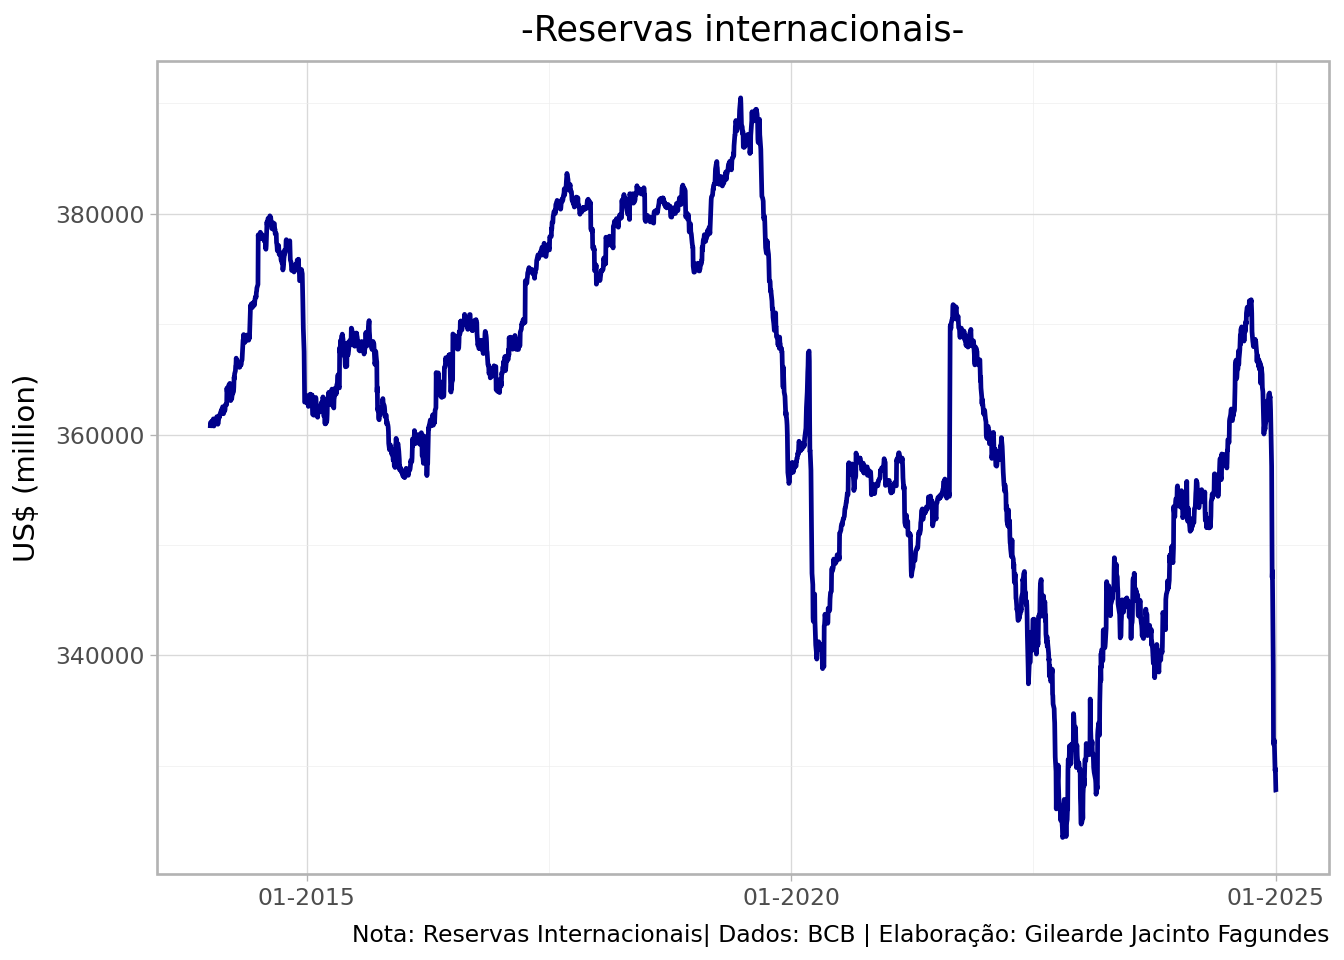
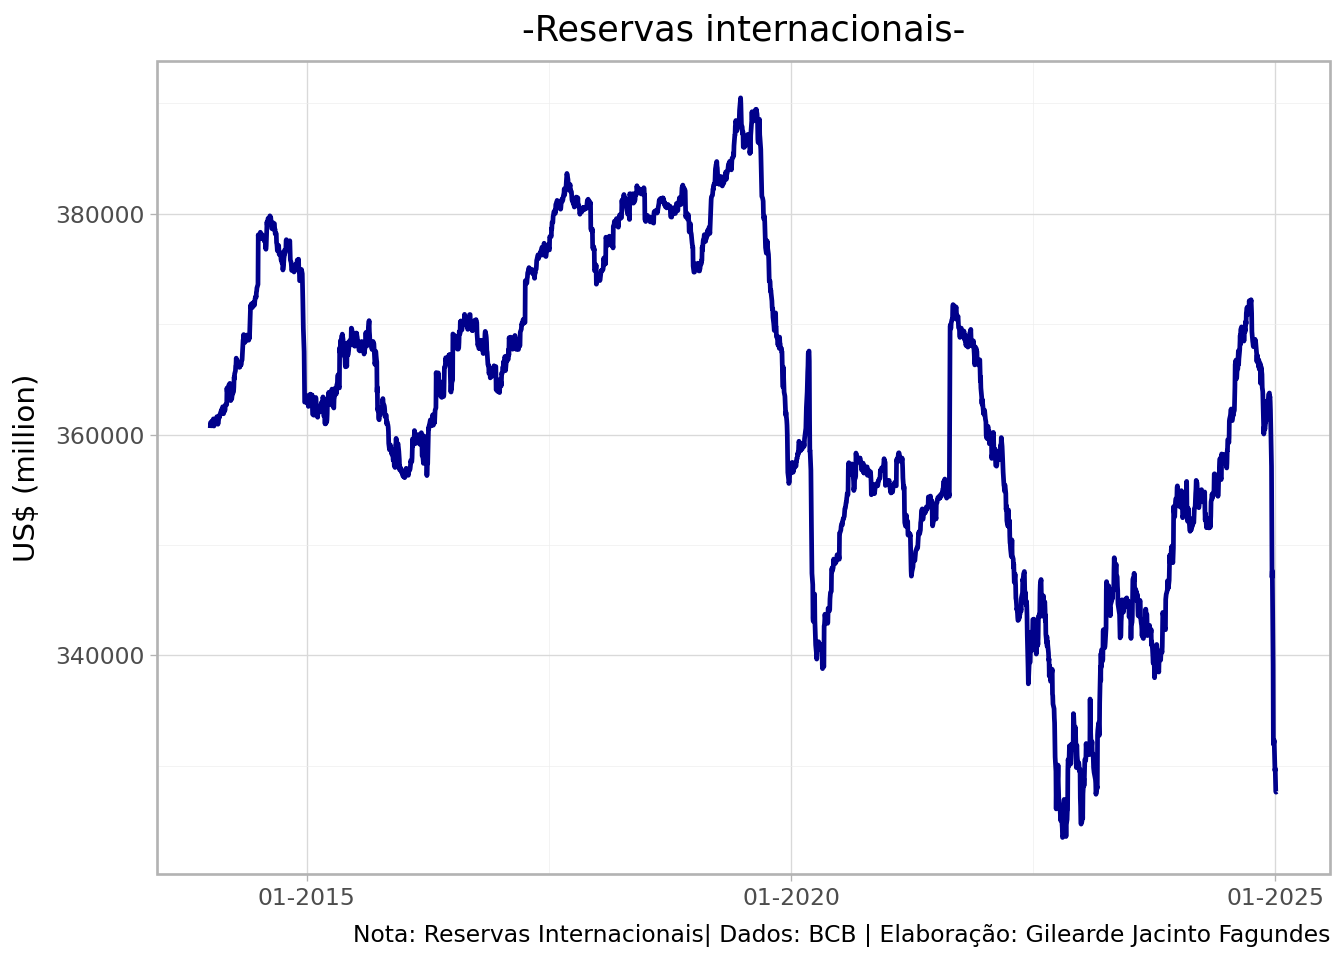
Atualização de relatorio e dashboard

diff --git a/relatorio/relatorio.html b/relatorio/relatorio.html
@@ -107,14 +107,14 @@ pre > code.sourceCode > span > a:first-child::before { text-decoration: underlin
 
 
 <p>Dados coletados da API do Banco Central do Brasil.</p>
-<div id="8515775f" class="cell" data-execution_count="1">
+<div id="74d03cb6" class="cell" data-execution_count="1">
 <div class="sourceCode cell-code" id="cb1"><pre class="sourceCode python code-with-copy"><code class="sourceCode python"><span id="cb1-1"><a href="#cb1-1" aria-hidden="true" tabindex="-1"></a><span class="co"># Import Librarys</span></span>
 <span id="cb1-2"><a href="#cb1-2" aria-hidden="true" tabindex="-1"></a><span class="im">from</span> bcb <span class="im">import</span> sgs</span>
 <span id="cb1-3"><a href="#cb1-3" aria-hidden="true" tabindex="-1"></a><span class="im">import</span> pandas <span class="im">as</span> pd</span>
 <span id="cb1-4"><a href="#cb1-4" aria-hidden="true" tabindex="-1"></a><span class="im">import</span> plotnine <span class="im">as</span> p9</span></code><button title="Copy to Clipboard" class="code-copy-button"><i class="bi"></i></button></pre></div>
 </div>
 <p>Utilização da library SGS/BCB:</p>
-<div id="07fc3517" class="cell" data-execution_count="2">
+<div id="0a6cf289" class="cell" data-execution_count="2">
 <div class="sourceCode cell-code" id="cb2"><pre class="sourceCode python code-with-copy"><code class="sourceCode python"><span id="cb2-1"><a href="#cb2-1" aria-hidden="true" tabindex="-1"></a><span class="co"># Collect data</span></span>
 <span id="cb2-2"><a href="#cb2-2" aria-hidden="true" tabindex="-1"></a>dados <span class="op">=</span> sgs.get(</span>
 <span id="cb2-3"><a href="#cb2-3" aria-hidden="true" tabindex="-1"></a>    codes<span class="op">=</span>{<span class="st">"reserva"</span>: <span class="dv">13621</span>},</span>
@@ -123,7 +123,7 @@ pre > code.sourceCode > span > a:first-child::before { text-decoration: underlin
 <span id="cb2-6"><a href="#cb2-6" aria-hidden="true" tabindex="-1"></a>)</span></code><button title="Copy to Clipboard" class="code-copy-button"><i class="bi"></i></button></pre></div>
 </div>
 <p>Os dados brutos obtidos no SGS/BCB são exibidos abaixo:</p>
-<div id="919591d4" class="cell" data-execution_count="3">
+<div id="3e76bba3" class="cell" data-execution_count="3">
 <div class="sourceCode cell-code" id="cb3"><pre class="sourceCode python code-with-copy"><code class="sourceCode python"><span id="cb3-1"><a href="#cb3-1" aria-hidden="true" tabindex="-1"></a>dados</span></code><button title="Copy to Clipboard" class="code-copy-button"><i class="bi"></i></button></pre></div>
 <div class="cell-output cell-output-display" data-execution_count="3">
 <div>
@@ -166,37 +166,37 @@ pre > code.sourceCode > span > a:first-child::before { text-decoration: underlin
 <td>...</td>
 </tr>
 <tr class="odd">
-<td data-quarto-table-cell-role="th">2024-12-27</td>
-<td>332306</td>
-</tr>
-<tr class="even">
 <td data-quarto-table-cell-role="th">2024-12-30</td>
 <td>329537</td>
 </tr>
-<tr class="odd">
+<tr class="even">
 <td data-quarto-table-cell-role="th">2024-12-31</td>
 <td>329730</td>
 </tr>
-<tr class="even">
+<tr class="odd">
 <td data-quarto-table-cell-role="th">2025-01-02</td>
 <td>327676</td>
 </tr>
-<tr class="odd">
+<tr class="even">
 <td data-quarto-table-cell-role="th">2025-01-03</td>
 <td>327596</td>
+</tr>
+<tr class="odd">
+<td data-quarto-table-cell-role="th">2025-01-06</td>
+<td>327656</td>
 </tr>
 </tbody>
 </table>
 
-<p>2763 rows × 1 columns</p>
+<p>2764 rows × 1 columns</p>
 </div>
 </div>
 </div>
 <p>Valores e datas da maxima e minima das Reservas Internacionais Totais:</p>
-<div id="34474ceb" class="cell" data-execution_count="4">
+<div id="ced1eda8" class="cell" data-execution_count="4">
 <div class="sourceCode cell-code" id="cb4"><pre class="sourceCode python code-with-copy"><code class="sourceCode python"><span id="cb4-1"><a href="#cb4-1" aria-hidden="true" tabindex="-1"></a>dados <span class="op">=</span> dados.assign(data <span class="op">=</span> dados.index)</span></code><button title="Copy to Clipboard" class="code-copy-button"><i class="bi"></i></button></pre></div>
 </div>
-<div id="7ce0fe31" class="cell" data-execution_count="5">
+<div id="fbbb84a2" class="cell" data-execution_count="5">
 <div class="sourceCode cell-code" id="cb5"><pre class="sourceCode python code-with-copy"><code class="sourceCode python"><span id="cb5-1"><a href="#cb5-1" aria-hidden="true" tabindex="-1"></a>menor_valor <span class="op">=</span> dados.reserva.<span class="bu">min</span>() </span>
 <span id="cb5-2"><a href="#cb5-2" aria-hidden="true" tabindex="-1"></a>data_menor_valor <span class="op">=</span> dados.reserva.idxmin().date()</span>
 <span id="cb5-3"><a href="#cb5-3" aria-hidden="true" tabindex="-1"></a>maior_valor<span class="op">=</span>dados.reserva.<span class="bu">max</span>()</span>
@@ -208,7 +208,7 @@ pre > code.sourceCode > span > a:first-child::before { text-decoration: underlin
 </div>
 </div>
 <p>Gráfico de linha com a série das Reservas Internacionais Totais:</p>
-<div id="5ad29497" class="cell" data-execution_count="6">
+<div id="77bbe71c" class="cell" data-execution_count="6">
 <div class="sourceCode cell-code" id="cb7"><pre class="sourceCode python code-with-copy"><code class="sourceCode python"><span id="cb7-1"><a href="#cb7-1" aria-hidden="true" tabindex="-1"></a><span class="co"># Line Graph</span></span>
 <span id="cb7-2"><a href="#cb7-2" aria-hidden="true" tabindex="-1"></a>chart<span class="op">=</span>p9.ggplot(data <span class="op">=</span> dados) <span class="op">+\</span></span>
 <span id="cb7-3"><a href="#cb7-3" aria-hidden="true" tabindex="-1"></a>  p9.aes(x <span class="op">=</span> <span class="st">"data"</span>, y <span class="op">=</span> <span class="st">"reserva"</span>) <span class="op">+\</span></span>
@@ -222,7 +222,7 @@ pre > code.sourceCode > span > a:first-child::before { text-decoration: underlin
 <span id="cb7-11"><a href="#cb7-11" aria-hidden="true" tabindex="-1"></a>    ) <span class="op">+\</span></span>
 <span id="cb7-12"><a href="#cb7-12" aria-hidden="true" tabindex="-1"></a>  p9.theme_light()</span></code><button title="Copy to Clipboard" class="code-copy-button"><i class="bi"></i></button></pre></div>
 </div>
-<div id="741d38d9" class="cell" data-execution_count="7">
+<div id="339c1135" class="cell" data-execution_count="7">
 <div class="sourceCode cell-code" id="cb8"><pre class="sourceCode python code-with-copy"><code class="sourceCode python"><span id="cb8-1"><a href="#cb8-1" aria-hidden="true" tabindex="-1"></a>chart</span></code><button title="Copy to Clipboard" class="code-copy-button"><i class="bi"></i></button></pre></div>
 <div class="cell-output cell-output-display">
 <div>
